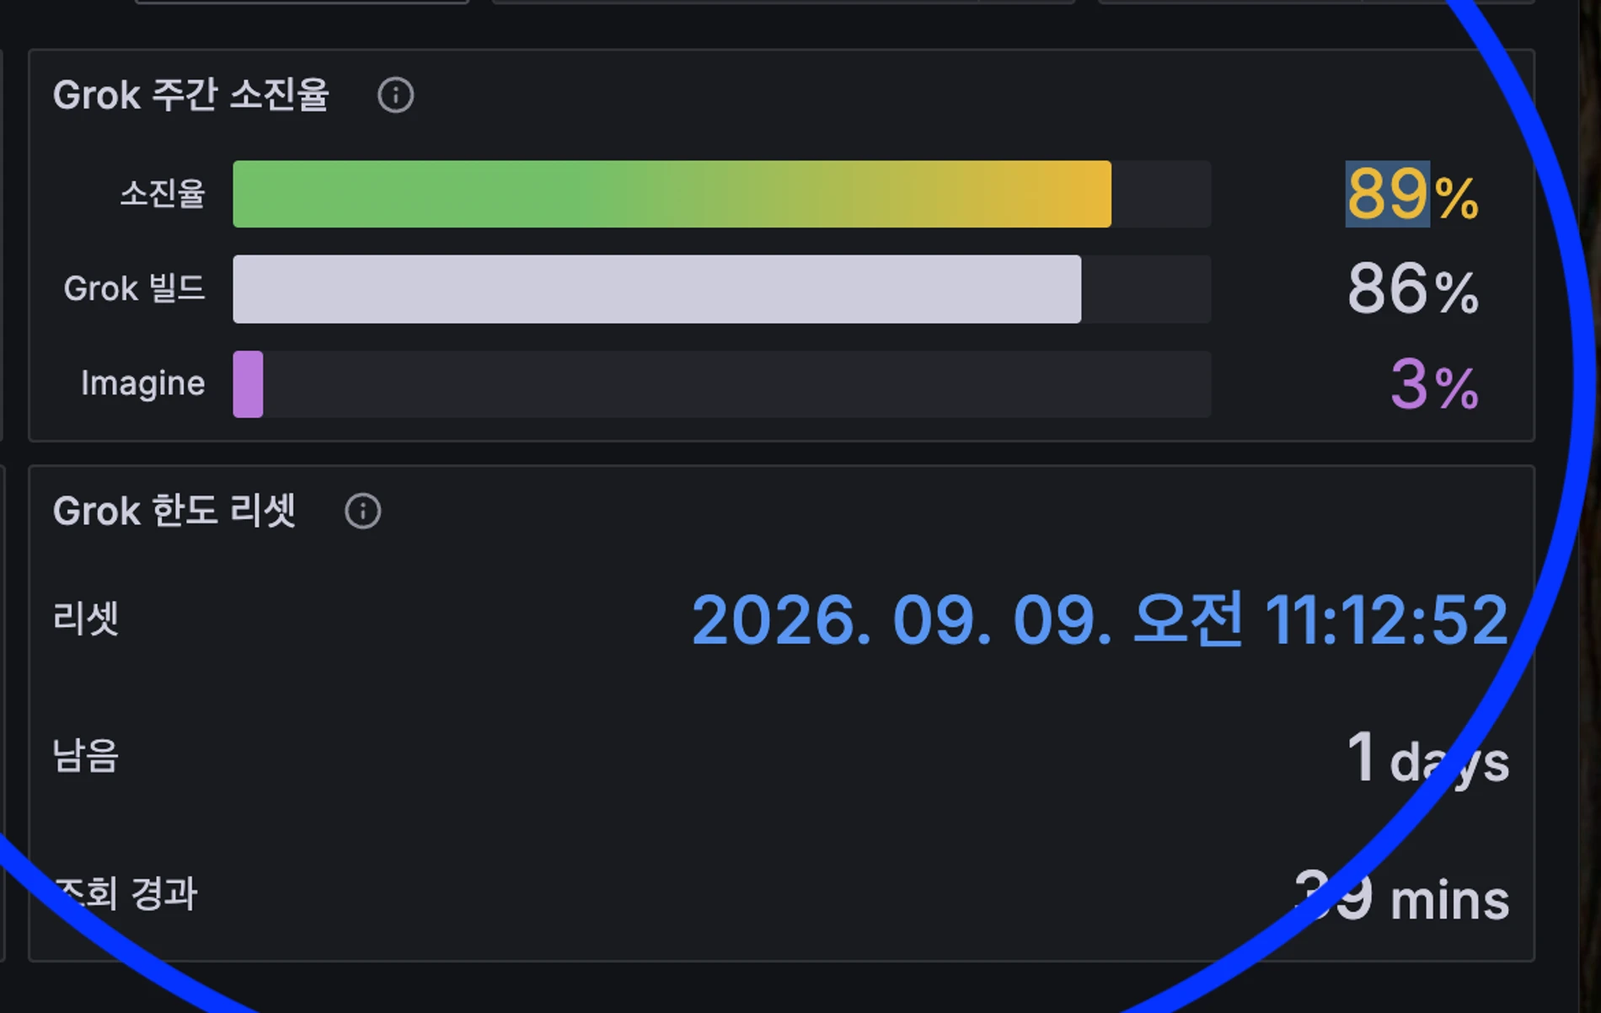
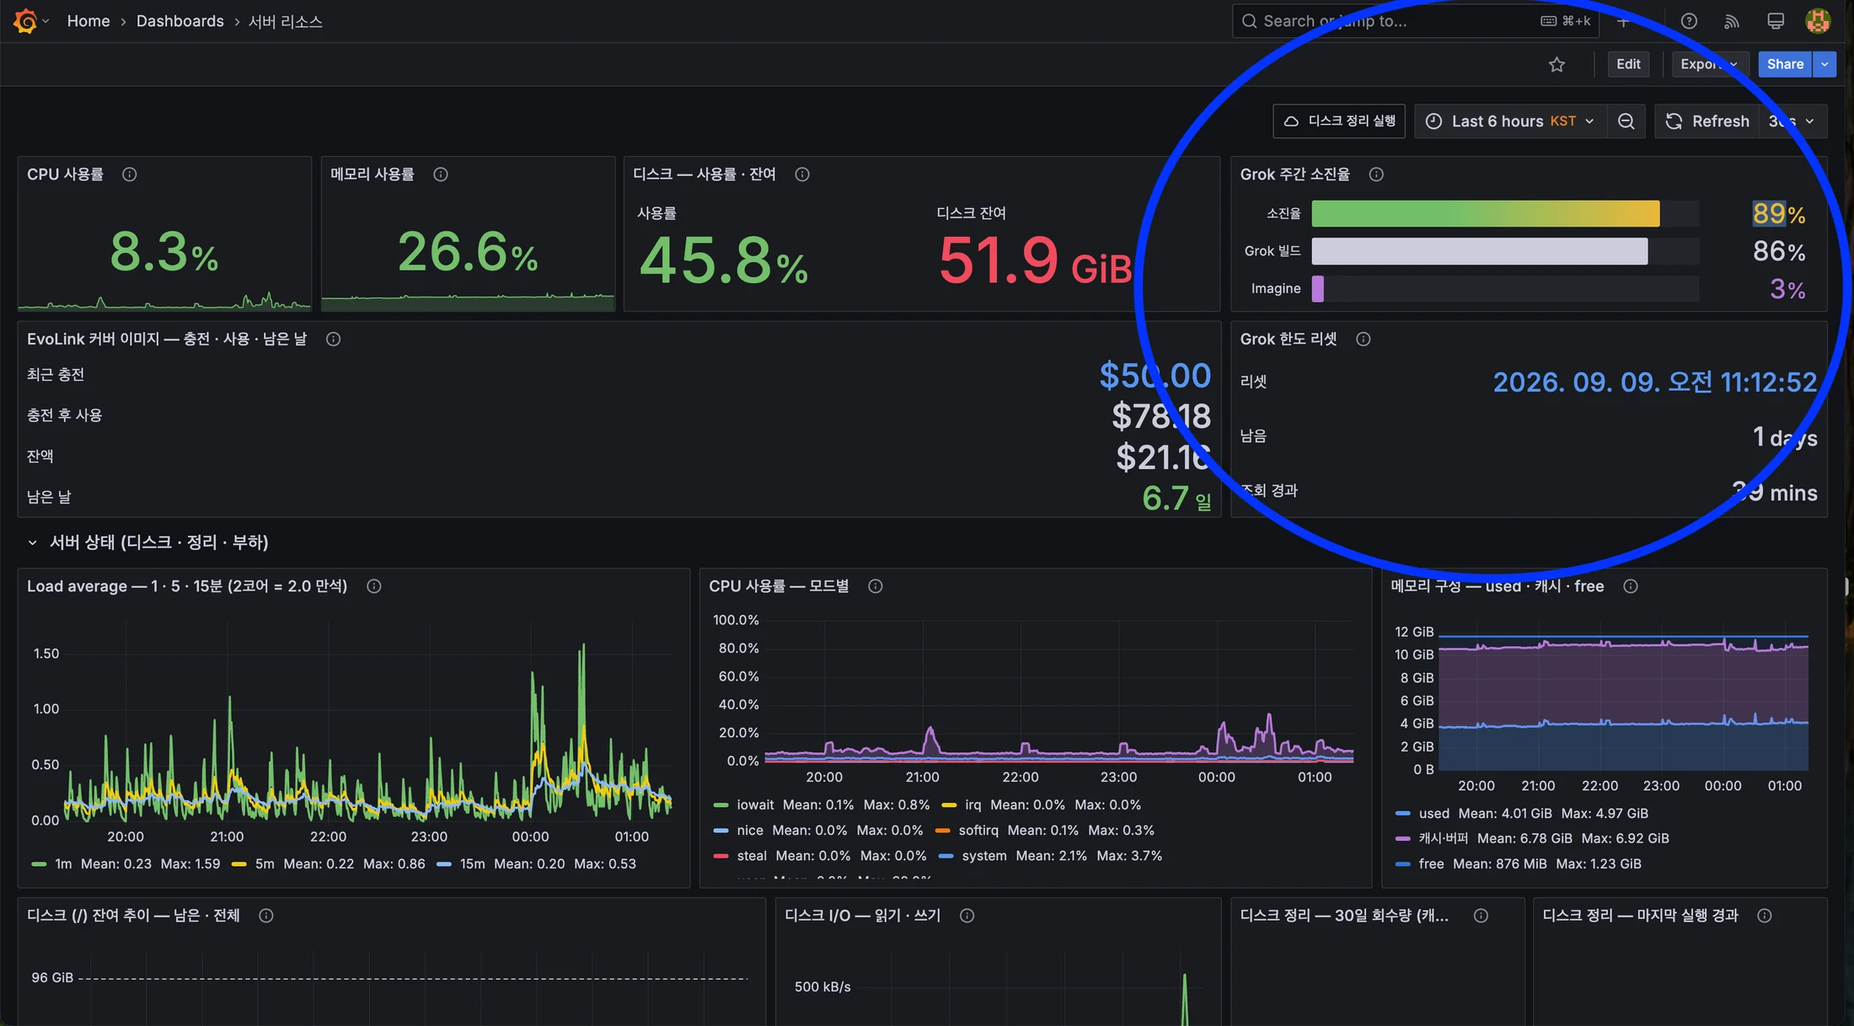
post(devops): 영문판 추가 + 커버를 대시보드 전체로 + Cost 카테고리를 DevOps 로 (#37)
커버가 판넬 두 개만 확대해 보여 주고 있었다. 원본처럼 대시보드 전체가 보이게 다시 잘랐다.
브라우저 북마크바는 잘라내고, 브레드크럼의 내부 서버 이름만 덮어 「서버 리소스」로 바꿨다.

영문판을 한글판과 같은 구조로 썼다 — 336줄, h2 5개, h3 13개, 이미지 2장으로 동일하다.
파일명이 같아야 EN↔KO 토글이 연결된다.

카테고리 `cost` 를 `devops` 로 바꿨다. `cost` 는 enum 에만 있고 쓰는 글이 0개였다
(`cost` 라는 낱말은 태그로만 쓰인다). 이번 글 두 편을 `devops` 로 넣었다.

계정별 판넬 이미지의 계정 이름은 「주 계정 / 서브 계정」으로 가렸다. 파란 주석 원은
픽셀을 떠서 글자 위에 다시 얹어 보존했다 — 주석 선(rgb 10,54,246)과 파란 글자
(rgb 99,150,231)는 R 값으로 갈린다.

diff --git a/src/content.config.ts b/src/content.config.ts
@@ -14,7 +14,7 @@ const blog = defineCollection({
     tags: z.array(z.string()).default([]),
     // 카테고리 필터 (배너 아래 pill). all은 UI 기본값이라 글엔 지정 안 함.
     category: z
-      .enum(['systems', 'scaling', 'reliability', 'cost'])
+      .enum(['systems', 'scaling', 'reliability', 'devops'])
       .default('systems'),
     draft: z.boolean().default(false),
     // 검색 대표 URL 수동 오버라이드(선택). 비우면 self-canonical(기본).

diff --git a/src/i18n/ui.ts b/src/i18n/ui.ts
@@ -112,7 +112,7 @@ export const categories = [
   { id: 'systems', label: 'Systems' },
   { id: 'scaling', label: 'Scaling' },
   { id: 'reliability', label: 'Reliability' },
-  { id: 'cost', label: 'Cost' },
+  { id: 'devops', label: 'DevOps' },
 ] as const;
 
 export function categoryLabel(id: string): string {

diff --git a/src/content/blog/en/switching-llm-accounts-before-the-quota-runs-out.md b/src/content/blog/en/switching-llm-accounts-before-the-quota-runs-out.md
@@ -1,0 +1,336 @@
+---
+title: "Switching LLM Accounts at 88% — Manually First, Then Automatic Failover at 80%"
+description: "I saw the primary account hit 88% on Grafana, worked out when it would run dry, and switched by hand at dawn when nobody was publishing. Then I gave the accounts an order so the sub only takes traffic when the primary is empty or over its limit."
+pubDate: 2026-09-08
+tags:
+  [
+    "llm",
+    "grok",
+    "observability",
+    "grafana",
+    "prometheus",
+    "failover",
+    "alerting",
+    "protobuf",
+  ]
+category: devops
+cover: /covers/switching-llm-accounts-before-the-quota-runs-out.webp
+coverAlt: "Full dashboard view. The weekly quota panel in the top right has reached 89%"
+coverCaption: "The weekly quota is the panel in the top right. 33 hours until reset, 11% left."
+---
+
+> [!NOTE]
+> The service I own generates blog post bodies with an LLM. It runs on a subscription account rather than a metered API key, and subscriptions come with a weekly quota. Once that quota is full, no posts come out until the next reset. Users had posts scheduled throughout the day, so when the account hit 88% I caught it and switched to the sub account at dawn, while nothing was generating. It now moves to the sub on its own once the primary crosses 80%.
+
+Users set the schedules. Each blog has a cron, and a worker generates and publishes posts at those times. Since no human sits in the loop, a full quota doesn't announce itself. The scheduler is fine, the queue is fine, only the output stops — and you find out in the morning when the publish list is empty.
+
+Switching accounts carries a similar constraint. It means restarting the proxy that handles authentication, and any post being generated at that moment fails. So the switch had to happen before the quota filled **and** while nothing was generating.
+
+I checked the dashboard at dawn and the primary account was at **88%**. This post starts there: working out when it would run dry, switching by hand while nobody was publishing, and then giving the accounts an order so the failover happens on its own.
+
+## 1\. Planning the switch at 88%
+
+The weekly quota resets at the same time every week. It was at 88% then (89% by the time I finished checking), with 33 hours left before reset. One question mattered: **would the remaining 12% last 33 hours?**
+
+### Count generation time, not publish time
+
+Each blog has a cron, so the number of upcoming posts is countable from the schedule. There's a catch though.
+
+```ts title="worker/src/scheduler.ts"
+// pre-generation lookahead (6h default): schedules due within this window are generated early.
+const PREGEN_LOOKAHEAD_MS = Math.max(
+  0,
+  Number(process.env.PREGEN_LOOKAHEAD_MS ?? 6 * 3600_000),
+);
+```
+
+Posts are generated six hours before they publish. Tokens are spent at generation time; publishing just ships something that already exists. So to know how much gets spent between now and noon, you count the posts that will be **generated** by noon, not the ones that will be published — the ones going out between 06:52 and 18:00.
+
+I noticed it because `last_run_at` in the database sat exactly six hours earlier than the cron time. Counting by publish time would have shifted the whole window.
+
+### Count topic inventory, not the cap
+
+Schedules have a `posts_per_run` ceiling. Add those up and the window holds 57 posts. In practice it doesn't produce anywhere near that.
+
+```sql
+-- topics a schedule can actually pick up
+SELECT count(*) FROM topics t
+ WHERE t.site_id = $1
+   AND t.status = 'verified'
+   AND t.content_plan_status IN ('ready', 'not_requested')
+   AND NOT EXISTS (SELECT 1 FROM posts p WHERE p.topic_id = t.id)
+```
+
+The scheduler picks up topics in `verified` state. A blog with no inventory runs its schedule and produces zero. Counting inventory instead gave 15.
+
+|                                | Count  |
+| ------------------------------ | ------ |
+| Schedule runs                  | 39     |
+| `posts_per_run` total          | 57     |
+| **Actual, inventory-adjusted** | **15** |
+
+Two `×10` schedules had zero inventory and were spinning empty. Yesterday's `schedule_runs` over the same window showed 15 actually enqueued out of 39 runs, which matched.
+
+### Check the account you're switching to
+
+Before switching I looked at the sub account.
+
+- **Same subscription plan?** It had to be the same SuperGrok Heavy for the quota size to match. A different plan invalidates every calculation.
+- **Is anyone using it?** If usage isn't 0%, switching buys less.
+- **When does it reset?** To alternate between two accounts you need to know whether the cycles are offset or aligned.
+
+![The provider console's weekly quota screen, showing 89% used, the reset time, and the per-item breakdown of Grok Build 86% and Imagine 3%](/images/grok-console-weekly-quota.webp)
+
+The plan name, the usage, the reset time — they only exist on this screen. Personal subscriptions have no public API, so checking means looking at the console. Later I end up mimicking the request this screen makes.
+
+It turned out to be the same plan at 0%, resetting three hours after the primary. The cycles almost overlap, so alternating to cover a gap doesn't work — but the weekly total doubles.
+
+### Noon is fine, so there's no rush
+
+Stacking up measured hourly consumption put noon at around 94%. Not urgent. And if it isn't urgent, there's no reason to switch at an arbitrary moment — pick a time when nothing is generating.
+
+## 2\. One account was never going to be enough
+
+While doing the arithmetic something more important turned up.
+
+The account had burned 88% over the 5.57 days since the cycle started. That's roughly 16 percentage points a day.
+
+```
+16pp/day × 7 days = 112pp/week   ← demand
+one account's quota                100pp
+```
+
+Weekly demand exceeds the quota. Sitting at 88% wasn't bad luck — it was going to happen every week.
+
+That changed what this job was. Not "switch once to get through tonight" but **"give the accounts an order so traffic moves on its own when one runs dry."** Two accounts make 200pp, which leaves 1.8× headroom against 112pp of demand.
+
+> [!IMPORTANT]
+> The sub account's 100% for that week was about to vanish with the reset 33 hours later. It had gone unused the entire week. Since unused quota is simply lost, "save the primary's remaining 12%" wasn't a real calculation.
+
+That settled it. The question wasn't about saving anything, it was about reducing risk — and moving to an account at 0% right now was the better side of that trade.
+
+## 3\. Why I delayed the automation, and why that was right
+
+I could have built the automatic switch right there. I didn't.
+
+### There was no way to validate the trigger
+
+Automatic switching comes down to a machine deciding when to move. The obvious signal is a quota-exceeded response. To use it as a condition, you need to know what that response looks like.
+
+```
+sum by (code) (increase(llm_http_responses_total{lane="grok"}[7d]))
+→ code="200"  only
+```
+
+Seven days, and not a single code other than 200. There was no recorded instance of what arrives when the quota fills. You can write the condition, but you can't confirm it's right. And it fails in two directions.
+
+| Wrong direction | Result                                                                        |
+| --------------- | ----------------------------------------------------------------------------- |
+| Too dull        | The switch never fires and posts fail. More code, same outcome as none        |
+| Too eager       | A momentary rate limit reads as an exhausted quota, burning a healthy account |
+
+### Automating it doesn't save any human effort
+
+Getting a token for the sub account requires an interactive login no matter how you design it. It's browser OIDC; there's nothing to automate. Finishing the automatic switch first leaves that step exactly where it was. What you actually save is two commands.
+
+```bash
+rm ~/.grok-proxy/token.json
+sudo systemctl restart xai-proxy
+```
+
+There's no reason to push unvalidated code into the only path post generation travels, at dawn, to save those two lines.
+
+### The steps I took
+
+So I did it by hand.
+
+**① Pick a moment with zero posts in flight.** I watched `llm_inflight` and the queues for a window where nothing was generating. The next generation block was 80 minutes out.
+
+**② Back up the live token.** This is where the trap was. OIDC refresh tokens rotate — refresh once and the previous one is dead. So the token in the `auth.json` the CLI wrote was already dead; ours was dated June. The live one lived in the proxy's state file.
+
+**③ The state file is the source of truth.** The proxy works like this.
+
+```python title="xai-proxy.py"
+def _load_state():
+    if os.path.exists(STATE_FILE):
+        return json.load(open(STATE_FILE))   # ← if present, only this is read
+    d = json.load(open(GROK_AUTH))           # ← seeded from here only when absent
+```
+
+Logging into `auth.json` with a new account does nothing at all. The state file has to be deleted before it gets read again. Flip that around and it means logging in while leaving the state file alone keeps production running untouched — the login step doesn't move production at all, and there's exactly one file to revert.
+
+**④ Personal and Team are different wallets on the consent screen.** The device authorization screen has a `Personal / Team` toggle. Picking Team makes the team the principal, which spends the team's metered credits instead of the personal subscription's weekly quota. That erases the point of switching and adds a bill.
+
+I opened the existing token to see which one it was before proceeding.
+
+```
+principal_type = User          ← not Team
+principal_id   = <user_id>     ← not team_id
+team_id        = <present>     ← the field has a value, but the principal is User
+```
+
+`team_id` having a value makes this confusing. `principal_type` is what decides the principal.
+
+### The screen lied the moment I switched
+
+The swap went fine. The proxy attached with the new account's token and real calls came back 200. Then I looked at usage: the new account was at 0%, but the screen still showed **the old account's 90%**.
+
+The cause was the collector's parser. The usage response is protobuf, and proto3 doesn't serialize default values. On an account at exactly 0%, that field simply isn't there.
+
+```awk
+# total usage is the 4 bytes after f1 (0x0d)
+if (ratio < 0 && B[i] == 13) { ratio = f32(B[i+1], B[i+2], B[i+3], B[i+4]) }
+...
+if (ratio < 0 || ratio > 100) exit 1     # ← missing means failure
+```
+
+The parser treats a missing field as failure. On failure the collector writes nothing, which leaves the last successful value sitting in the file. That 90% on screen was a stale value from the old account.
+
+> [!WARNING]
+> What makes this failure nasty is that the screen doesn't go blank. You notice when a value disappears; when an old value stays, you read it as current. A similar incident happened before on this project — a four-hour-old balance read as the current balance and drove a decision.
+
+Whether the response is valid comes down to the reset time. Even a 0% response carries it. If the gRPC frame length checks out and the reset time parses, the response was read correctly, and a missing usage figure is 0, not a failure.
+
+```awk
+valid = 0
+if (n > 5 && B[0] == 0 && reset > 0) {
+  mlen = B[1]*16777216 + B[2]*65536 + B[3]*256 + B[4]
+  if (mlen > 0 && n >= mlen + 5) valid = 1
+}
+if (ratio < 0 && valid) ratio = 0        # absent means zero
+if (ratio < 0 || ratio > 100) exit 1     # broken frame still fails, as before
+```
+
+A broken frame or a missing reset time still fails the way it used to. It won't invent a 0 out of login HTML or noise. I captured a real 0% response as a fixture and pinned it in the tests.
+
+Had I built the automatic switch first, it would have been making decisions on top of that lie. Reading 90% for an account at 0% means deciding the threshold was crossed and immediately moving off the account I'd just switched to — at dawn, with nobody watching.
+
+## 4\. How the automatic switch works
+
+With the observability fixed, I put the automatic switch in.
+
+### Give the keys an order
+
+Order matters more than the threshold. The accounts sit in a priority list, and every request starts reading from the first one again.
+
+```python title="xai-proxy.py"
+def order(self, now):
+    """Reading from index 0 every time is what makes a reset account come back on its own."""
+    usable = [a for a in self.accounts if not a.blocked(now)]
+    if usable:
+        return usable + [a for a in self.accounts if a.blocked(now)]
+    # even with everything blocked, don't give up — take the least full one
+    return sorted(self.accounts, key=lambda a: a.ratio())
+
+def blocked(self, now):
+    if self.cooldown_until > now:              return "cooldown"
+    if self.quota["ratio"] >= QUOTA_THRESHOLD: return "quota"
+```
+
+Three things follow from this.
+
+- **The sub only takes traffic when the primary is empty or dry.** While the primary is healthy the sub sits behind it in the order and never gets used.
+- **Coming back needs no code.** When the primary resets, `blocked()` returns `None` and the next request goes back to it on its own.
+- **It doesn't stop even when everything is blocked.** That's what the last line is for. Raising there would kill post generation outright.
+
+The threshold sits at 0.80. Pushing to 100% is dangerous: post bodies have no fallback on this path, so a full quota means failure after three retries. Images survive because they fall back to a different engine.
+
+> [!TIP]
+> The threshold is not a hard cap. If every account is over it, the least full one keeps serving. It's a priority signal that says "move on to the next account if you reasonably can," not "stop here."
+
+### Two signals, primary and safety net
+
+Two signals drive the decision.
+
+| Signal                | Role                                                                                                  |
+| --------------------- | ----------------------------------------------------------------------------------------------------- |
+| **Usage** (primary)   | Read ahead of the request so an account over the threshold is never picked                            |
+| **Response** (safety) | If a quota-shaped response arrives anyway, cool that account down and move on within the same request |
+
+Usage is the primary signal for the reason above: with no recorded quota-exceeded response, the response alone can't be validated. That doesn't mean trusting usage alone either — the lookup path is unofficial and could close at any time.
+
+A failed lookup doesn't block the account. If it can't be read, it stays unread and we move on (fail-open). Halting post generation because usage couldn't be read costs far more.
+
+### Rotating tokens decided the architecture
+
+Showing both accounts side by side on the dashboard ran into one constraint.
+
+Reading usage requires that account's access token, and access tokens are refreshed with a refresh token — which rotates on every use. So exactly one thing may refresh a given account's token. Two refreshers invalidate each other.
+
+That's why the collector can't read the inactive account's usage. Reading requires refreshing, and refreshing collides with the proxy.
+
+```
+proxy      ── owns tokens · refreshes · reads usage ──▶ per-account metrics file
+                                                              │
+collector  ──────────── only moves it ───────────────────────┘
+```
+
+The proxy goes as far as producing Prometheus text, and the collector moves it into the textfile directory. No nested JSON parsing in shell, no new scrape target.
+
+At first I left the parser in the collector too. I thought two copies would validate each other. They don't. The switch runs on the proxy's parse and the screen draws from the collector's parse, so if they diverge you get a state where **the screen looks fine but the switch isn't happening** — and that isn't something you catch by looking. It turned out neither the panels nor the alerts were reading what the collector emitted. I removed the parser and the 386 lines around it and folded everything into the proxy.
+
+> [!CAUTION]
+> Deleting the code isn't enough. The volume holding the metric files stays behind, and unless those files are removed the collector keeps exporting stale values forever. You notice when a value disappears; when an old value stays, you read it as current. Same failure as earlier in this post. It now clears them once at startup.
+
+One more thing became necessary. When the account changes, the usage curve drops straight from 90% to 0%. Without something explaining that step, you look at the graph later and assume collection broke. So which account is currently serving goes on the same screen.
+
+![Dashboard after the switch. Primary at 90% and sub at 0% side by side, along with which account is taking traffic and each account's reset time. Account names are masked](/images/grok-quota-per-account-panels.webp)
+
+### Alerts only fire on failure
+
+The switch itself isn't announced. It's normal behavior that happens a few times a week because of the weekly quota, and mailing it out buries the real incidents.
+
+There are three ways the switch fails, and since the response differs for each, there are three rules.
+
+| Rule         | Condition                     | Level    | Meaning                    | Response                         |
+| ------------ | ----------------------------- | -------- | -------------------------- | -------------------------------- |
+| no-target    | Every account blocked         | Critical | Nowhere to go              | Cut publishing or add an account |
+| account-down | One account can't get a token | Warning  | Can't move to that account | Log in again                     |
+| blind        | Usage collection has stopped  | Warning  | Can't tell when to move    | Check the proxy                  |
+
+Two things needed care.
+
+It's `min`, not `max`. One account reaching its limit is normal — that's why there are two. With `max` it fires all the time, and an alert that's always on hides the real problem.
+
+It has to fire when the metric disappears, too. If the proxy dies the metric goes away entirely, and an empty result means the condition is never evaluated and passes quietly. That's the most dangerous silence.
+
+```yaml
+expr: (time() - max(grok_account_quota_updated_seconds)) or vector(999999)
+noDataState: Alerting
+```
+
+## 5\. Results
+
+The first generation block on the night of the switch went through without errors.
+
+```
+Published      9/9 succeeded
+Grok calls     text 45 · image 3 — all 200
+Failure rate   16%  (normal range 7–21%)
+Proxy errors   none
+```
+
+I confirmed the automatic switch in both directions. I never specified an account, only changed the threshold.
+
+| Threshold | Account that took the request                    |
+| --------- | ------------------------------------------------ |
+| 0.80      | Sub (primary at 90% > 80%, skipped)              |
+| 0.95      | **Primary** ← came back on its own once eligible |
+| 0.80      | Sub                                              |
+
+The switch history the proxy left behind. `reorder` means the proxy decided on its own.
+
+```
+17:01  primary(0.90) → sub(0.00)   mode=manual    ← by hand
+17:30  primary(0.90) → sub(0.00)   mode=reorder   reason=quota
+17:42  sub(0.00) → primary(0.90)   mode=reorder   ← back once eligible
+17:43  primary(0.90) → sub(0.00)   mode=reorder   reason=quota
+```
+
+### note
+
+**It leans on an unofficial lookup path.** Personal subscriptions have no public API, so it calls the same gRPC-Web endpoint the console uses. A change in the response shape breaks the lookup. That's why it's fail-open: the service keeps running, only the switching decision goes stale, and the `blind` alert says so.
+
+**Detection lags by up to five minutes.** Usage is cached. At the current burn rate that's 0.04 percentage points over five minutes, effectively nothing — but it's a number to revisit if publishing volume grows a lot.
+
+**The reactive path has never fired in production.** No quota-exceeded response has ever arrived, so that path is covered by tests only. It isn't a problem while the primary signal carries the load, but it's worth knowing it's unvalidated.

diff --git a/src/content/blog/ko/switching-llm-accounts-before-the-quota-runs-out.md b/src/content/blog/ko/switching-llm-accounts-before-the-quota-runs-out.md
@@ -13,10 +13,10 @@ tags:
     "alerting",
     "protobuf",
   ]
-category: reliability
+category: devops
 cover: /covers/switching-llm-accounts-before-the-quota-runs-out.webp
-coverAlt: "대시보드에서 주간 한도 소진율이 89%에 닿은 화면"
-coverCaption: "초기화까지 33시간, 남은 건 11%였습니다."
+coverAlt: "대시보드 전체 화면. 오른쪽 위 Grok 주간 소진율 패널이 89%에 닿아 있다"
+coverCaption: "오른쪽 위가 주간 한도입니다. 초기화까지 33시간, 남은 건 11%였습니다."
 ---
 
 > [!NOTE]
